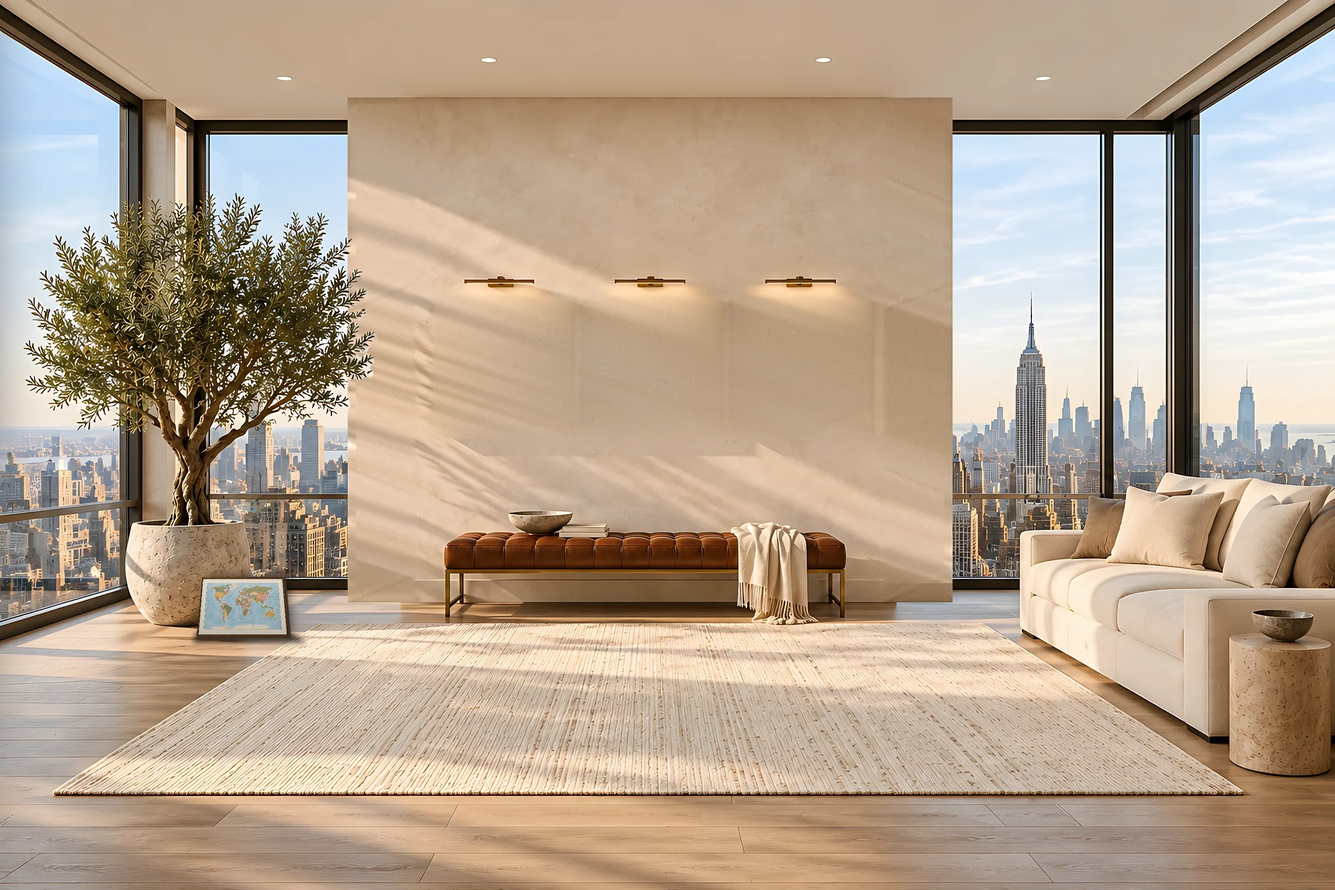
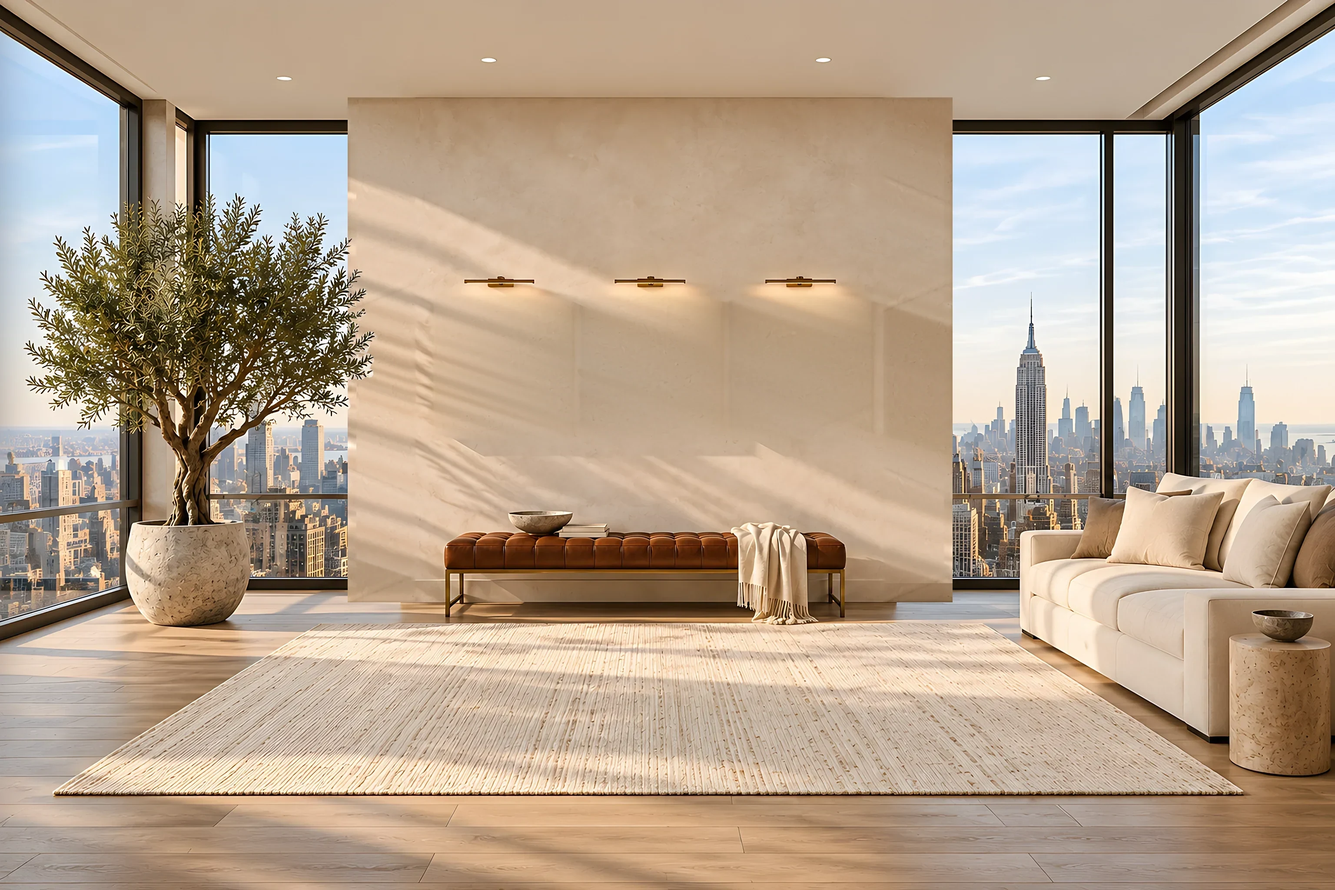
Remove the travel map and everything tied to it
Room stills rebuilt without the map in all lights; Home caption, link, hover
glow, tap target, MAP and its CSS removed; About no longer mentions travel.
DL-58.

Claude-Session: https://claude.ai/code/session_01Q2iX8U4MkKUcYxVfpZrcab

Changed region(s): [[0.125, 0.625, 0.25, 0.75]]

diff --git a/src/app/globals.css b/src/app/globals.css
@@ -732,36 +732,26 @@ html[data-time='night'] .room5 img[data-light='night'] { opacity: 1; }
 /* Artwork in the mats: a live layer, never painted into the room image */
 .room5__art { position: absolute; overflow: hidden; background: #d8cbb6; }
 .room5__art img { position: absolute; inset: 0; width: 100%; height: 100%; object-fit: cover; }
-.room5__hang--map::before { display: none; }
-.room5__frame--map::before { content: none; }
 /* the low wall sits in the bench's shade and the sun streaks, so this caption always gets a soft wash */
 /* Text on the wall: no washes (they read as shapes on the plaster). Where the plaster is too busy or too dark for the
    ink, a soft halo hugs the letters instead, like light catching raised lettering. Values tuned against rendered pixels. */
-.room5 { --id-halo: none; --cap-halo: none; --map-ink: var(--cap-ink); --map-halo: 0 0 .22cqw rgba(250, 244, 232, .95), 0 0 .8cqw rgba(250, 244, 232, .75); }
+.room5 { --id-halo: none; --cap-halo: none; }
 html[data-time='golden'] .room5 { --id-halo: 0 0 .25cqw rgba(255, 238, 212, .95), 0 0 1.1cqw rgba(255, 232, 200, .65);
-  --cap-halo: 0 0 .22cqw rgba(255, 236, 208, .95), 0 0 .8cqw rgba(255, 230, 196, .65);
-  --map-halo: 0 0 .25cqw rgba(255, 238, 212, 1), 0 0 .5cqw rgba(255, 236, 208, .9), 0 0 1.1cqw rgba(255, 230, 196, .7); }
-/* night: captions in the lamp pool keep dark ink on a warm halo; the map hangs below the lamps, in shade, so its caption is light */
+  --cap-halo: 0 0 .22cqw rgba(255, 236, 208, .95), 0 0 .8cqw rgba(255, 230, 196, .65); }
+/* night: captions in the lamp pool keep dark ink on a warm halo */
 html[data-time='night'] .room5 { --id-halo: 0 1px .3cqw rgba(10, 6, 3, .6), 0 0 1cqw rgba(12, 7, 3, .45);
-  --cap-halo: 0 0 .25cqw rgba(255, 228, 190, 1), 0 0 .5cqw rgba(255, 226, 186, .85), 0 0 1.1cqw rgba(255, 222, 180, .65);
-  --map-ink: #FFF6E8; --map-halo: 0 1px .25cqw rgba(10, 6, 3, .75), 0 0 .8cqw rgba(12, 7, 3, .6); }
+  --cap-halo: 0 0 .25cqw rgba(255, 228, 190, 1), 0 0 .5cqw rgba(255, 226, 186, .85), 0 0 1.1cqw rgba(255, 222, 180, .65); }
 .room5__frame { text-shadow: var(--cap-halo); }
-.room5__hang--map .room5__frame--map { text-shadow: var(--map-halo); color: var(--map-ink); }
-html[data-time='night'] .room5__hang:not(.room5__hang--map) .room5__dates { text-shadow: 0 0 .1cqw rgba(255, 232, 198, 1), 0 0 .25cqw rgba(255, 228, 190, 1), 0 0 .55cqw rgba(255, 226, 186, .9), 0 0 1.1cqw rgba(255, 222, 180, .7), 0 0 2cqw rgba(255, 220, 176, .55); }
-html[data-time='golden'] .room5__hang--map .room5__dates { text-shadow: 0 0 .1cqw rgba(255, 240, 216, 1), 0 0 .25cqw rgba(255, 238, 212, 1), 0 0 .55cqw rgba(255, 236, 208, .9), 0 0 1.1cqw rgba(255, 230, 196, .75), 0 0 2cqw rgba(255, 230, 196, .55); }
+html[data-time='night'] .room5__hang .room5__dates { text-shadow: 0 0 .1cqw rgba(255, 232, 198, 1), 0 0 .25cqw rgba(255, 228, 190, 1), 0 0 .55cqw rgba(255, 226, 186, .9), 0 0 1.1cqw rgba(255, 222, 180, .7), 0 0 2cqw rgba(255, 220, 176, .55); }
 html[data-time='golden'] .room5__eyebrow { text-shadow: 0 0 .2cqw rgba(255, 240, 216, 1), 0 0 .45cqw rgba(255, 238, 212, .95), 0 0 1.1cqw rgba(255, 232, 200, .8), 0 0 2.2cqw rgba(255, 232, 200, .55); }
-.room5__frame--map { isolation: isolate; }
 /* Hover / keyboard focus on a painting: its picture light warms up and a soft glass glare drifts across the artwork.
    The light is a warm cone from the lamp, added with 'screen' so it brightens the room's own pixels rather than painting over them. */
 .room5__glow { position: absolute; z-index: 1; pointer-events: none; opacity: 0; mix-blend-mode: screen; transition: opacity .7s cubic-bezier(.2, .7, .2, 1);
   background: radial-gradient(ellipse 50% 82% at 50% 0%, rgba(255, 218, 168, .62) 0%, rgba(255, 206, 144, .3) 40%, rgba(255, 200, 130, .08) 62%, rgba(255, 200, 130, 0) 78%); }
-.room5__glow--soft { background: radial-gradient(ellipse 60% 62% at 50% 40%, rgba(255, 228, 190, .45) 0%, rgba(255, 220, 176, .2) 46%, rgba(255, 220, 176, 0) 78%); }
 html[data-time='night'] .room5__glow { background: radial-gradient(ellipse 50% 84% at 50% 0%, rgba(255, 196, 128, .7) 0%, rgba(255, 184, 110, .34) 40%, rgba(255, 180, 100, .09) 62%, rgba(255, 180, 100, 0) 78%); }
-html[data-time='night'] .room5__glow--soft { background: radial-gradient(ellipse 60% 62% at 50% 40%, rgba(255, 206, 150, .5) 0%, rgba(255, 196, 136, .22) 46%, rgba(255, 196, 136, 0) 78%); }
 .room5__scene:has(.room5__frame[data-frame='trowe']:is(:hover, :focus-visible)) .room5__glow[data-frame='trowe'] { opacity: 1; }
 .room5__scene:has(.room5__frame[data-frame='carlyle']:is(:hover, :focus-visible)) .room5__glow[data-frame='carlyle'] { opacity: 1; }
 .room5__scene:has(.room5__frame[data-frame='gs']:is(:hover, :focus-visible)) .room5__glow[data-frame='gs'] { opacity: 1; }
-.room5__scene:has(.room5__frame[data-frame='map']:is(:hover, :focus-visible)) .room5__glow[data-frame='map'] { opacity: 1; }
 .room5__art::after { content: ''; position: absolute; inset: 0; box-shadow: inset .14cqw .22cqw .38cqw rgba(0, 0, 0, .34), inset 0 0 0 1px rgba(0, 0, 0, .14); pointer-events: none; }
 
 /* Wall text and captions exist only in the wall layout */
@@ -894,7 +884,7 @@ html[data-time='golden'] .m5 [data-mode='golden']::before { animation-play-state
 
 /* Smallest wall text in golden light and at night: a soft pool of light the size of the line, feathered to nothing, so
    these lines read clearly over the sun streaks and lamp falloff without a visible shape on the plaster. */
-html[data-time='golden'] .room5__dates, html[data-time='night'] .room5__hang:not(.room5__hang--map) .room5__dates, html[data-time='golden'] .room5__eyebrow {
+html[data-time='golden'] .room5__dates, html[data-time='night'] .room5__hang .room5__dates, html[data-time='golden'] .room5__eyebrow {
   padding: .35em 1.1em; margin: -.35em -1.1em; border-radius: 50%;
   background: radial-gradient(closest-side, var(--line-light) 0%, var(--line-light) 45%, transparent 100%); }
 html[data-time='golden'] .room5 { --line-light: rgba(255, 236, 208, .55); }
@@ -930,12 +920,6 @@ html:not(.js) .room5__face--front { background: center / 100% 100% var(--frame);
 .room5__scene:has(.room5__frame[data-frame='carlyle']:is(:hover, :focus-visible)) .room5__obj[data-frame='carlyle'] .room5__flip { transform: rotateY(180deg); }
 .room5__scene:has(.room5__frame[data-frame='gs']:is(:hover, :focus-visible)) .room5__obj[data-frame='gs'] .room5__flip { transform: rotateY(180deg); }
 @media (prefers-reduced-motion: reduce) { .room5__flip { transition: none; } .room5__glow { transition: none; } }
-/* The travel caption sits on the floor beside the frame's contact shadow and the rug edge: same soft line light, all lights */
-.room5__hang--map .room5__company, .room5__hang--map .room5__dates { padding: .3em 1em; margin: -.3em -1em; border-radius: 50%;
-  background: radial-gradient(closest-side, var(--floor-light) 0%, var(--floor-light) 50%, transparent 100%); }
-.room5 { --floor-light: rgba(248, 240, 226, .78); }
-html[data-time='golden'] .room5 { --floor-light: rgba(255, 234, 204, .78); }
-html[data-time='night'] .room5 { --floor-light: rgba(14, 9, 5, .45); }
 
 /* Olive tree in a breeze (RoomTree): over the still tree, fading in once its light's textures are ready */
 .room5__treebox { position: absolute; pointer-events: none; }

diff --git a/src/components/room/GalleryRoom.tsx b/src/components/room/GalleryRoom.tsx
@@ -1,6 +1,6 @@
 import Link from 'next/link'
 import Arrow from '@/components/Arrow'
-import { FRAMES, IDENTITY, MAP, ROOM_BASE, ROOM_MODES, SCENE, TREE_BOX, ZONES, rectStyle } from '@/content/scene'
+import { FRAMES, IDENTITY, ROOM_BASE, ROOM_MODES, SCENE, TREE_BOX, ZONES, rectStyle } from '@/content/scene'
 import { PERSON } from '@/content/site'
 import { LOAD_ACTIVE_LIGHT } from '@/lib/roomLights'
 import RoomLights from './RoomLights'
@@ -76,8 +76,8 @@ export default function GalleryRoom() {
             )
           })}
           {/* Hover: the picture light warms up over the painting and the wall around it */}
-          {[...FRAMES.map(f => ({ id: f.id, glow: f.glow })), { id: 'map', glow: MAP.glow }].map(g => (
-            <i key={g.id} className={`room5__glow${g.id === 'map' ? ' room5__glow--soft' : ''}`} data-frame={g.id} style={rectStyle(g.glow)} aria-hidden="true" />
+          {FRAMES.map(g => (
+            <i key={g.id} className="room5__glow" data-frame={g.id} style={rectStyle(g.glow)} aria-hidden="true" />
           ))}
           <div className="room5__identity" style={rectStyle(ZONES.identity)}>
             <p className="room5__eyebrow">{IDENTITY.positioning}</p>
@@ -93,17 +93,11 @@ export default function GalleryRoom() {
               </Link>
             ))}
           </nav>
-          <div className="room5__hang room5__hang--map">
-            <Link href={MAP.href} className="room5__frame room5__frame--map" data-frame="map" style={rectStyle(MAP.hitbox)}>
-              <span className="room5__company">{MAP.title}</span>
-            </Link>
-          </div>
           {/* Tablet/phone layouts: the paintings stay clickable. Keyboard and screen-reader users use the labelled list below. */}
           <div className="room5__touch" aria-hidden="true">
             {FRAMES.map(f => (
               <Link key={f.id} href={f.href} tabIndex={-1} className="room5__tap" style={rectStyle(f.hitbox)} />
             ))}
-            <Link href={MAP.href} tabIndex={-1} className="room5__tap" style={rectStyle(MAP.hitbox)} />
           </div>
         </div>
         <script dangerouslySetInnerHTML={{ __html: LOAD_ACTIVE_LIGHT }} />

diff --git a/src/content/scene.ts b/src/content/scene.ts
@@ -49,15 +49,6 @@ export const FRAMES: Frame[] = [
   { id: 'gs', company: 'Goldman Sachs', role: 'Senior Associate, Global Banking and Markets Transformation', dates: 'Nov 2023 – Present', years: '2023 – Present', href: '/experience#goldman-sachs', art: '/art/gs-painting', mat: [870, 368, 100, 102], hitbox: [841, 339, 157, 247], glow: [799, 330, 240, 200], outer: [845, 343, 149, 151] },
 ]
 
-/** The travel map, propped against the olive tree's planter (baked into the room in each light; docs/decision-log.md DL-50). */
-export const MAP = {
-  title: 'Travel',
-  href: '/about#outside-work',
-  /** The leaning frame plus its caption on the floor below. */
-  hitbox: [214, 658, 130, 120] as Rect,
-  glow: [196, 636, 166, 118] as Rect,
-}
-
 /** The olive tree's canopy and trunk, down to the planter rim (RoomTree, docs/asset-lock/scripts/tree.py). */
 export const TREE_BOX: Rect = [0, 180, 460, 424]
 

diff --git a/src/app/about/page.tsx b/src/app/about/page.tsx
@@ -76,7 +76,7 @@ export default function AboutPage() {
         <div className="wrap">
           <div style={{ display: 'grid', gap: '2rem', maxWidth: '44rem' }} className="reveal">
             <p className="h3 italic">
-              Outside of work: New York, architecture and interiors, and travel.
+              Outside of work: New York, architecture and interiors.
             </p>
             <div className="btn-row">
               <Link href="/experience" className="btn">Experience <Arrow /></Link>

diff --git a/docs/decision-log.md b/docs/decision-log.md
@@ -62,3 +62,4 @@ Newest last. Each entry records the decision, why it was made and what would rev
 | DL-55 | 2026-10-15 | 6 | The light selector shows only the New York clock as a time. The options are **Morning, Afternoon, Night**, with no hour ranges, and "Golden hour" is renamed **Afternoon**. The internal light id stays `golden`, so assets and saved choices are unchanged. | Femi: "Only keep the current time in NYC… call golden hour 'afternoon'" | — |
 | DL-56 | 2026-10-20 | 6 | **Left side of Home balanced.** The left window extension (shown on wide screens) had clipped glass: 40% pure white in the morning and a blown sun bloom in the afternoon. Those areas are redrawn by LaMa with the room's left window as context. A soft highlight roll-off then covers the extension and fades out over the room's first 60 master px, so there's no seam. Nothing else in the room changes. Script: left-balance.py. | Femi: "the left side on the screen is too bright and overexposed, needs to be a bit more balanced" | — |
 | DL-57 | 2026-10-20 | 5/6 | **No travel counts anywhere.** The Home map caption keeps only "Travel" (the "30+ countries" line and its screen-reader text are gone). The map print's own mat caption, "30+ countries visited · 60+ cities explored", is removed from the room image in all lights. About's outside-work line now ends "…and travel." The map still links to About. Script: map-caption-remove.py, then wall2 → frames → lean → left-balance. | Femi: "remove the countries traveled from the home page and other sections of the site" | — |
+| DL-58 | 2026-10-20 | 5/6 | **Travel map removed.** The room image is rebuilt without it in all lights (wall2 → frames → left-balance, no lean), so the planter and floor are the original render. The Home caption, link, hover glow and tap target are removed, along with `MAP` in scene.ts and the map's CSS. About's outside-work line no longer mentions travel. Supersedes DL-50 (map placement) and DL-57. | Femi: "remove the travel frame and everything relating to it" | — |
